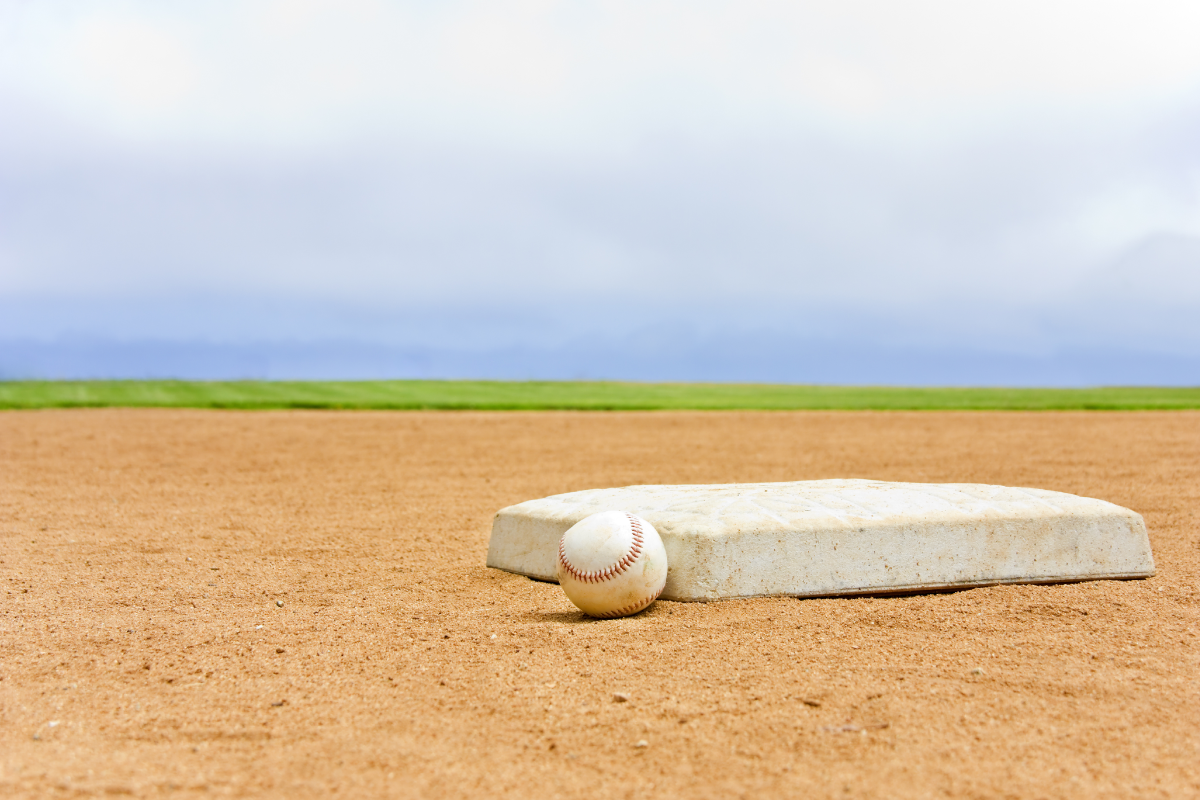
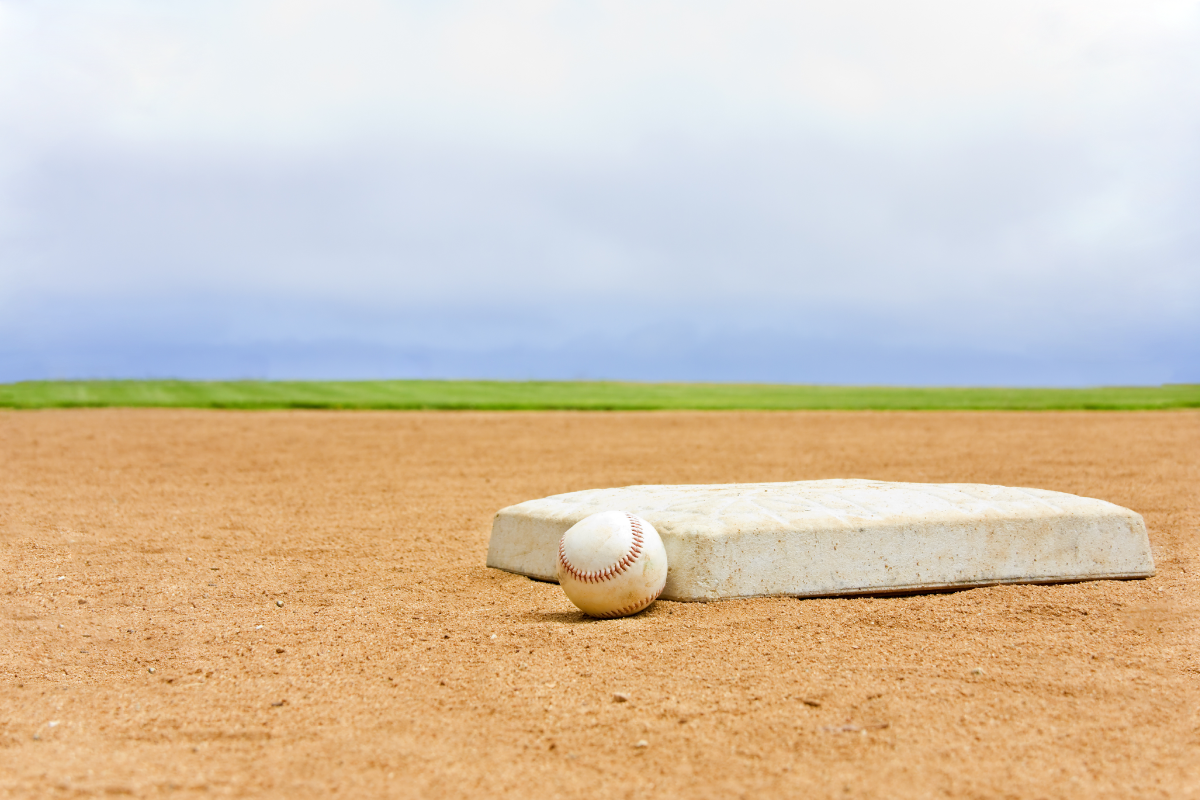
update hub image

diff --git a/ClutchWinBaseball/ClutchWinBaseball.WindowsPhone/HubPage.xaml b/ClutchWinBaseball/ClutchWinBaseball.WindowsPhone/HubPage.xaml
@@ -14,8 +14,8 @@
         <ResourceDictionary>
             <ResourceDictionary.ThemeDictionaries>
                 <ResourceDictionary x:Key="Default">
-                    <ImageBrush x:Key="HubBackgroundImageBrush" ImageSource="Assets/HubBackground.png" Opacity="0.75" 
-                                Stretch="UniformToFill" />
+                    <ImageBrush x:Key="HubBackgroundImageBrush" ImageSource="Assets/HubBackground.png" Opacity="0.95" 
+                                Stretch="Fill" />
                 </ResourceDictionary>
                 <ResourceDictionary x:Key="HighContrast">
                     <ImageBrush x:Key="HubBackgroundImageBrush" ImageSource="{x:Null}"/>
@@ -24,7 +24,7 @@
         </ResourceDictionary>
     </Page.Resources>
 
-    <Grid x:Name="LayoutRoot" Background="Beige">
+    <Grid x:Name="LayoutRoot" Background="Khaki">
         <Hub x:Name="MainHub" x:Uid="Hub" Header="{StaticResource AppName}" Background="{ThemeResource HubBackgroundImageBrush}">
             <HubSection x:Name="HomeHubSection" x:Uid="Welcome" Header="Welcome!">
                 <DataTemplate>
